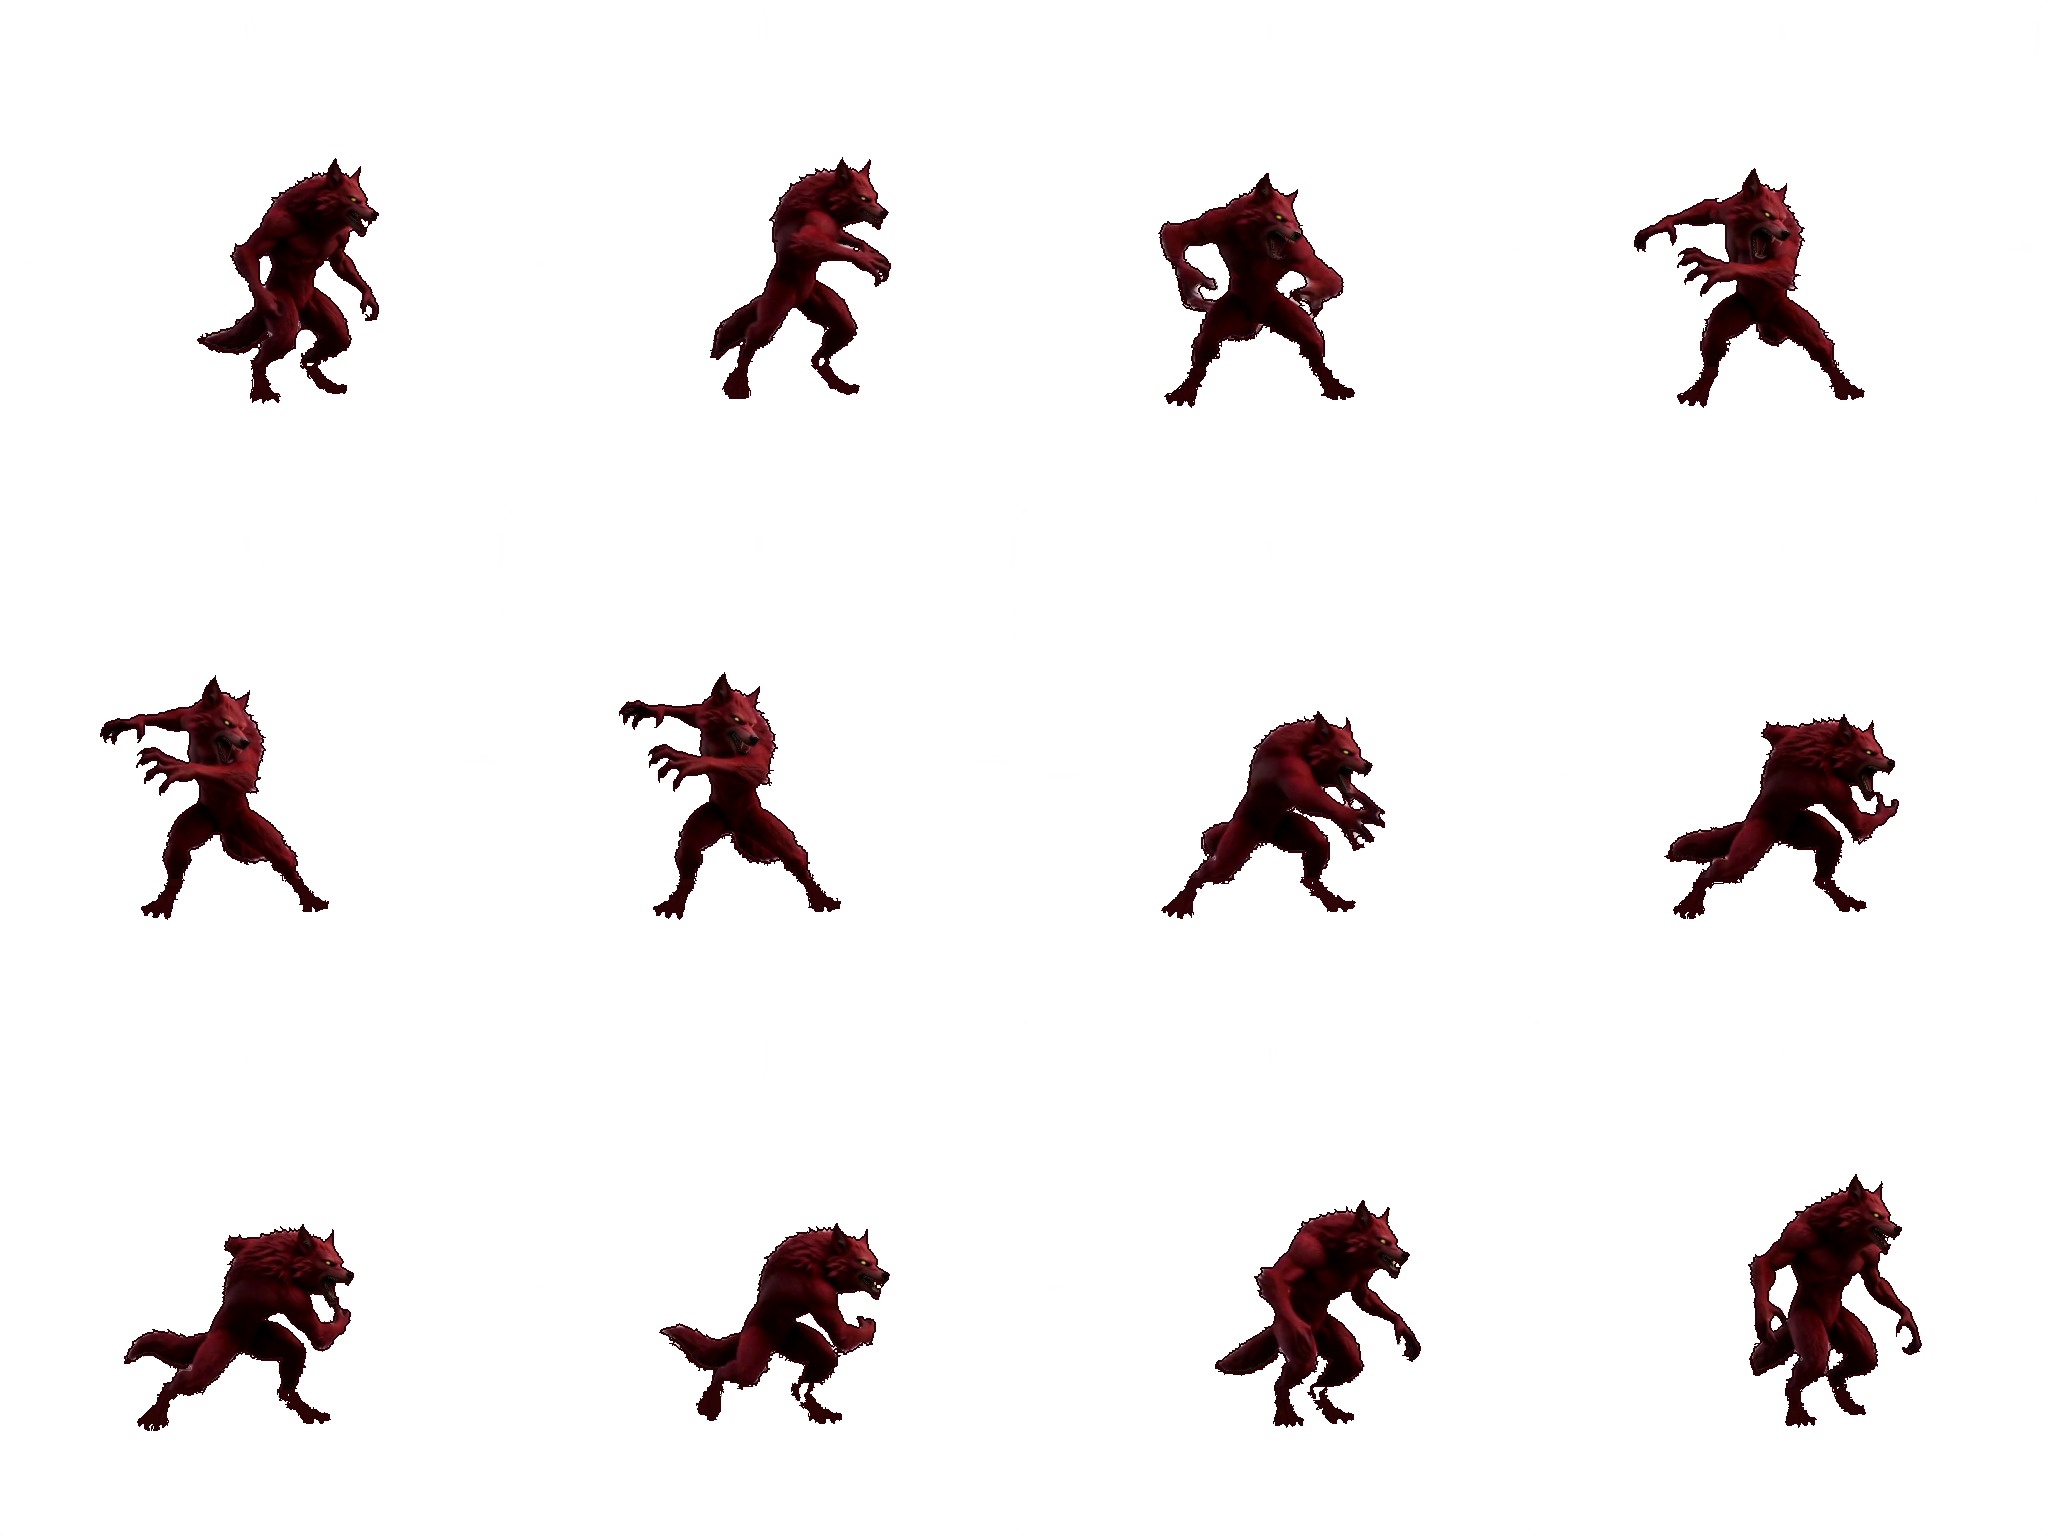
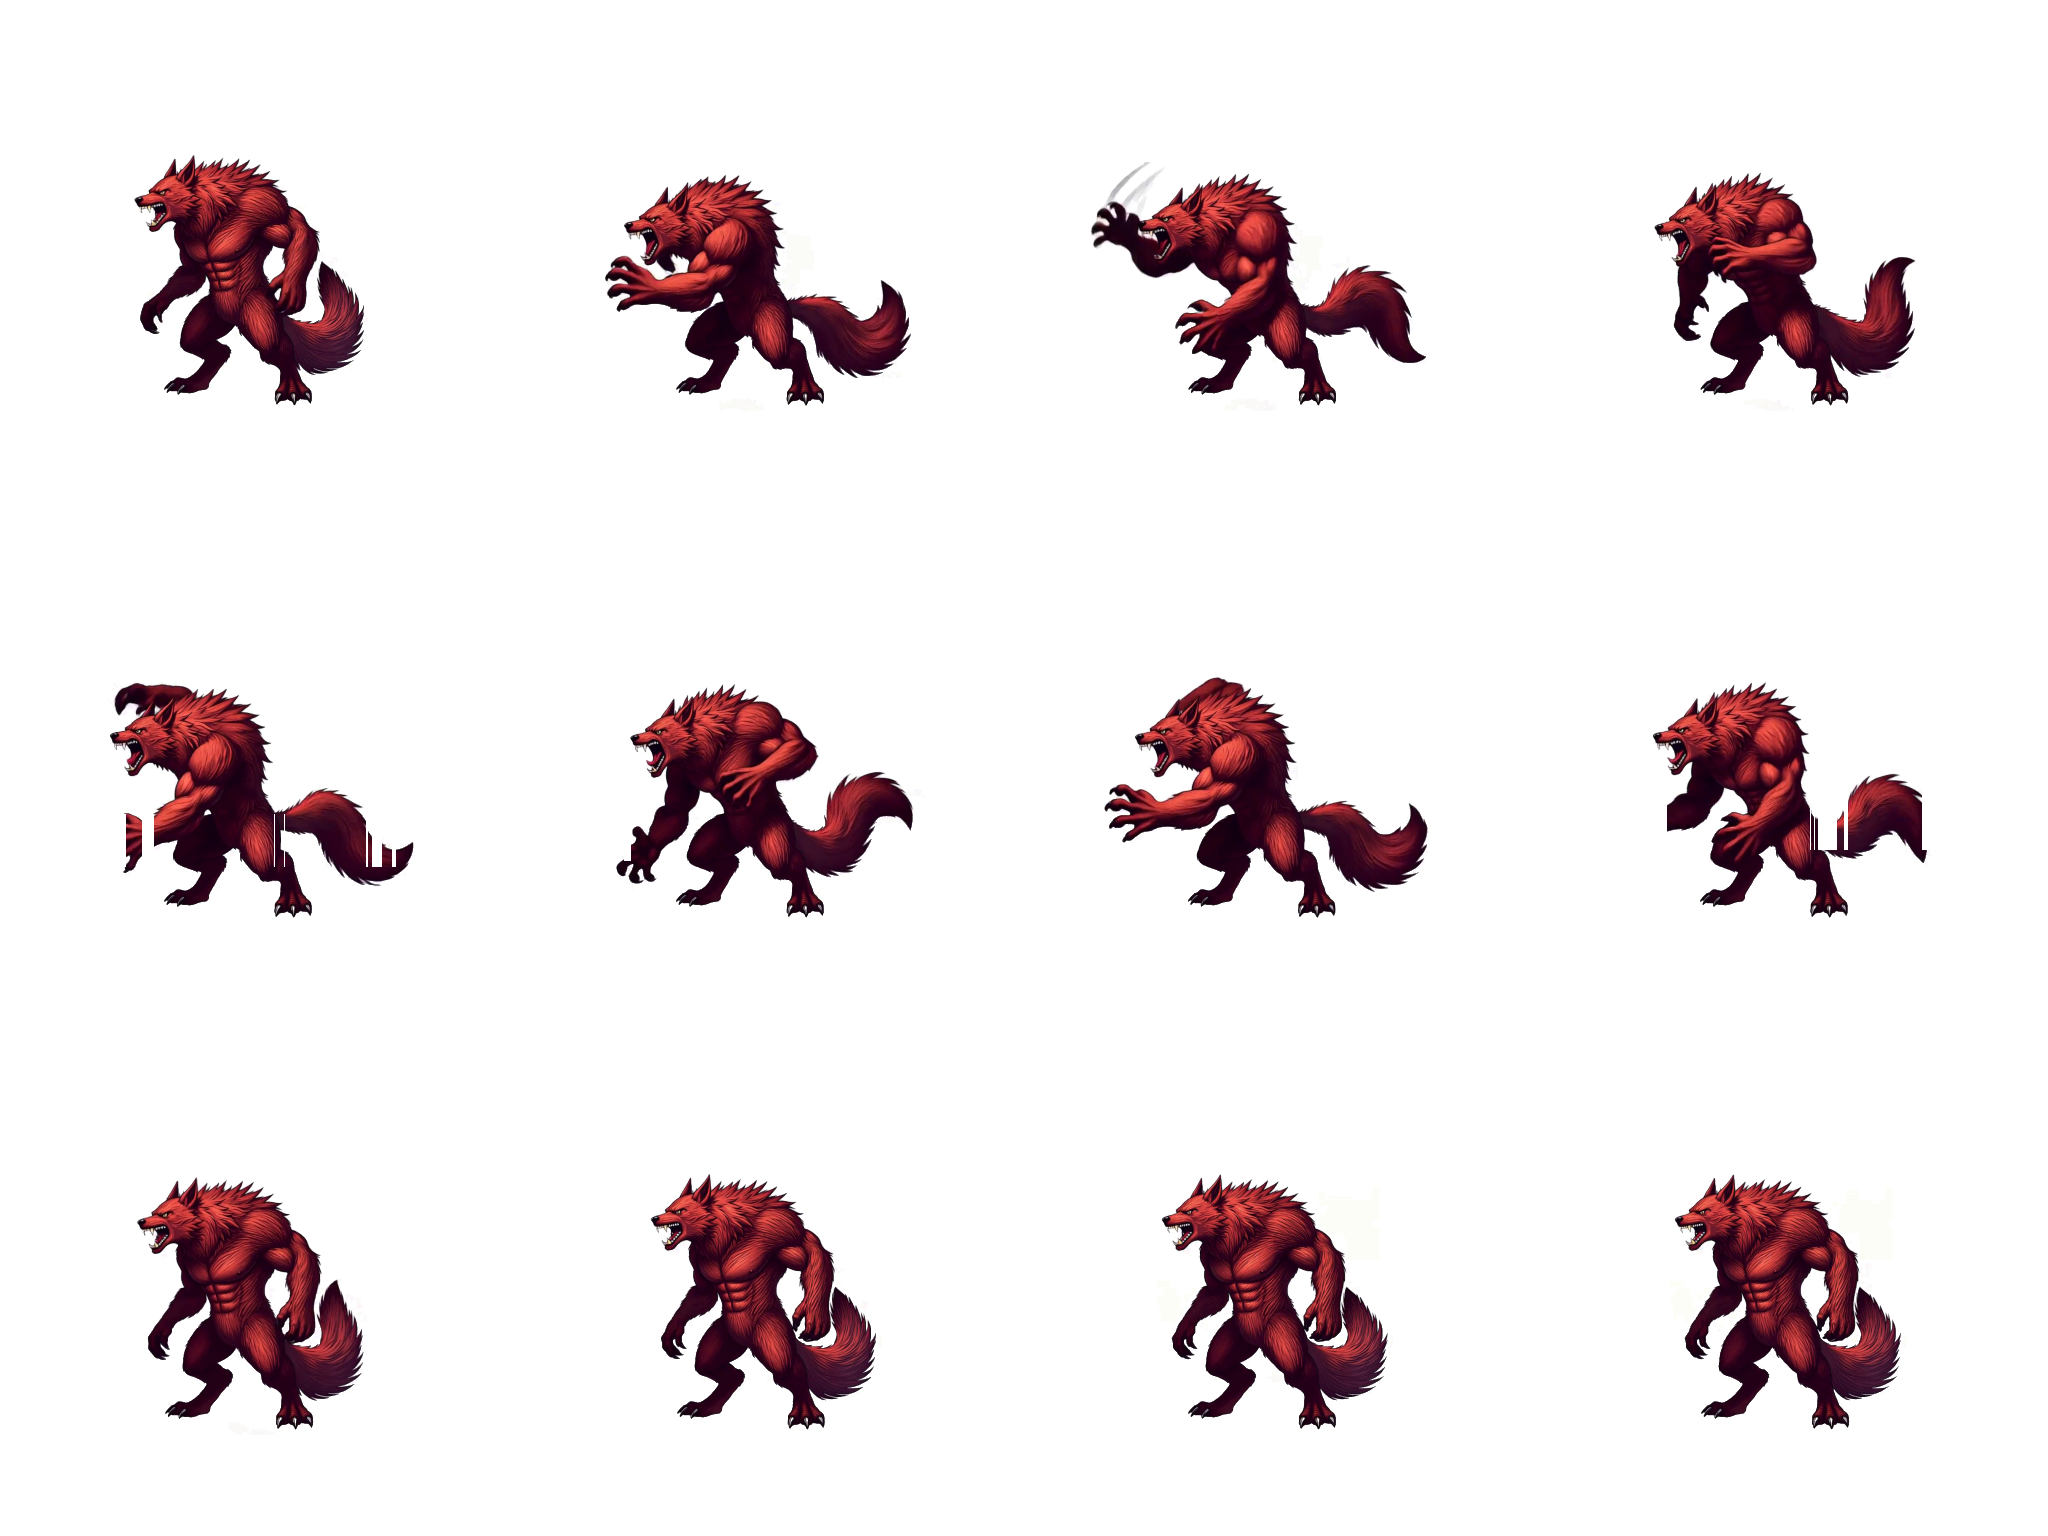
fix(arena): 通道侧墙全丢根因——_clipPassagePieceToRooms signC 误用 e.c.x/e.c.y（房间对象是 cx/cy）
Condensed 3 adjacent commits from the original history:
- d20dcb4b fix(arena): 通道侧墙全丢根因——_clipPassagePieceToRooms signC 误用 e.c.x/e.c.y（房间对象是 cx/cy）
- 94f3506a fix(arena): 转弯通道横墙挡路——seal 瓦 flip 方向 + halfSpan + 侧墙来源标记
- 43e51426 红狼人 run/attack 高清重生成：AI参考图 + 1344×768 + 20步

diff --git a/src/world/combat-room-system.js b/src/world/combat-room-system.js
@@ -1321,6 +1321,11 @@ export const CombatRoomSystem = {
                 if (clipped) {
                     // 深度统一走 WallSystem.depthOf 唯一入口（丢弃预制保存的 hub 坐标深度值）
                     clipped.depth = WallSystem.depthOf(clipped);
+                    // ⚠ 2026-08-08 八修：标记预制侧墙件——_sealPassageSides 只收集带标记的
+                    // 侧墙，避免迷宫转弯通道（v2/-v1 轴）误收集相邻房间的平行边墙
+                    // （房3/房4 的 TR/BL/LT 边与通道轴平行、perp 落在侧墙带内 →
+                    // 封口瓦被补到通道中间，横墙挡路）
+                    clipped._passageWall = true;
                     WallSystem.isoVisuals.push(clipped);
                 }
             }
@@ -1467,7 +1472,10 @@ export const CombatRoomSystem = {
             let nx = -e.d.y, ny = e.d.x;
             const nl = Math.hypot(nx, ny) || 1;
             nx /= nl; ny /= nl;
-            const signC = (e.c.x - e.P.x) * nx + (e.c.y - e.P.y) * ny;
+            // ⚠ 2026-08-08 七修：e.c 是房间对象（字段 cx/cy），旧版误用 e.c.x/e.c.y
+            // → undefined → signC=NaN → 法线永不翻转 → 边线方向错 → 通道侧墙件被误判
+            // "整件在房内"全部丢弃（用户"衔接通道没做墙/看不到墙壁"的根因）
+            const signC = (e.c.cx - e.P.x) * nx + (e.c.cy - e.P.y) * ny;
             if (signC < 0) { nx = -nx; ny = -ny; }
             const sOf = (P) => (P.x - e.P.x) * nx + (P.y - e.P.y) * ny; // >0 = 房内
             const sA = sOf(A), sB = sOf(B);
@@ -1499,9 +1507,15 @@ export const CombatRoomSystem = {
         // 收集该通道的侧墙件（平行于走廊轴、在走廊侧墙带内、且在本通道跨度范围内——
         // 不过滤跨度会把其他通道/房间的平行墙并入，填充出横跨全场的 stray 墙）
         const mid = passage.center;
-        const halfSpan = (passage.length || 1000) / 2 + 250;
+        // ⚠ 2026-08-08 八修：halfSpan 需覆盖预制侧墙件全程（t=-40..L+40，3 段瓦末端
+        // 沿轴 ~L/2+340）。旧值 length/2+250=732.5 会把末端件（沿 818）排除 →
+        // hi/lo 偏小 → 封口瓦从通道中段铺起（横墙挡路，用户"第三四房衔接混乱"）
+        const halfSpan = (passage.length || 1000) / 2 + 500;
         const byPiece = [];
         for (const p of WallSystem.isoVisuals) {
+            // ⚠ 2026-08-08 八修：只收集预制侧墙件（_passageWall）——防止转弯通道误收集
+            // 相邻房间的平行边墙（房 TR/BL/LT 边与 v2/-v1 通道轴平行且 perp 落在侧墙带）
+            if (!p._passageWall) continue;
             const seg = WallSystem._pieceBaseSegments(p)[0];
             if (!seg) continue;
             const [a, b] = seg;
@@ -1553,6 +1567,9 @@ export const CombatRoomSystem = {
             const faceLen = Math.hypot((g.face[1][0] - g.face[0][0]) * s, (g.face[1][1] - g.face[0][1]) * sy);
             const step = faceLen - 8;
             const lay = (a, b) => {
+                // ⚠ 2026-08-08 八修实验：flip（"\"方向）时 _addSegPiece 的 A 端=上端，
+                // fill 的 a<b 沿轴铺会让 A 落在下端 → 瓦被翻转横在通道（转弯通道 v2 横墙）
+                if (flip) { const t = a; a = b; b = t; }
                 const A = { x: S0.x + axis.x * a, y: S0.y + axis.y * a };
                 const B = { x: S0.x + axis.x * b, y: S0.y + axis.y * b };
                 WallSystem._addSegPiece(A, B, flip, geoKey, depthMode, 0.1);

diff --git a/tools/ai-gen/rw-humanoid-run-attack-hd.py b/tools/ai-gen/rw-humanoid-run-attack-hd.py
@@ -1,0 +1,50 @@
+#!/usr/bin/env python3
+"""红狼人 run + attack 高清重生成（2026-08-08）。
+
+H3 原生精细参数：1344×768 + 20 步（1024×576+16 步是粗糙根因）。
+统一参考图升级为 rw-humanoid-ref-1344.png，first=last=ref 锁体型/透视。
+串行生成 run → attack，每段约 17 分钟。
+
+用法（ComfyUI venv python）：
+  python rw-humanoid-run-attack-hd.py [run|attack]
+"""
+import os
+import subprocess
+
+PY = r"E:\无尽轮回\长期备份\2026-7-13-1\ComfyUI\.venv\Scripts\python.exe"
+TOOL = os.path.join(os.path.dirname(os.path.abspath(__file__)), "minimax-h3-gen.py")
+PROMPT_DIR = os.path.join(os.path.dirname(os.path.abspath(__file__)), "prompts")
+REF = os.path.join(os.environ["TEMP"], "rw-humanoid-ref-hd.png")
+OUT_DIR = os.path.join(os.environ["TEMP"], "rw-humanoid-hd-v2")
+os.makedirs(OUT_DIR, exist_ok=True)
+
+JOBS = [
+    ("run", "rwk_trun_hd.mp4", "rwk-humanoid-run-v2.txt"),
+    ("attack", "rwk_tatk_hd.mp4", "rwk-humanoid-attack.txt"),
+]
+
+
+def main():
+    import sys
+    only = set(sys.argv[1:])
+    for key, fname, prompt_file in JOBS:
+        if only and key not in only:
+            continue
+        out = os.path.join(OUT_DIR, fname)
+        log = out + ".log"
+        cmd = [
+            PY, TOOL,
+            "--first-frame", REF, "--last-frame", REF,
+            "--prompt-file", os.path.join(PROMPT_DIR, prompt_file),
+            "--size", "1344x768", "--steps", "20",
+            "--duration", "5.17", "--out", out, "--timeout", "2400",
+        ]
+        print(f"[{key}] start {out}", flush=True)
+        with open(log, "w", encoding="utf-8") as f:
+            p = subprocess.Popen(cmd, stdout=f, stderr=subprocess.STDOUT)
+            p.wait()
+        print(f"[{key}] exit {p.returncode} -> {out}", flush=True)
+
+
+if __name__ == "__main__":
+    main()
